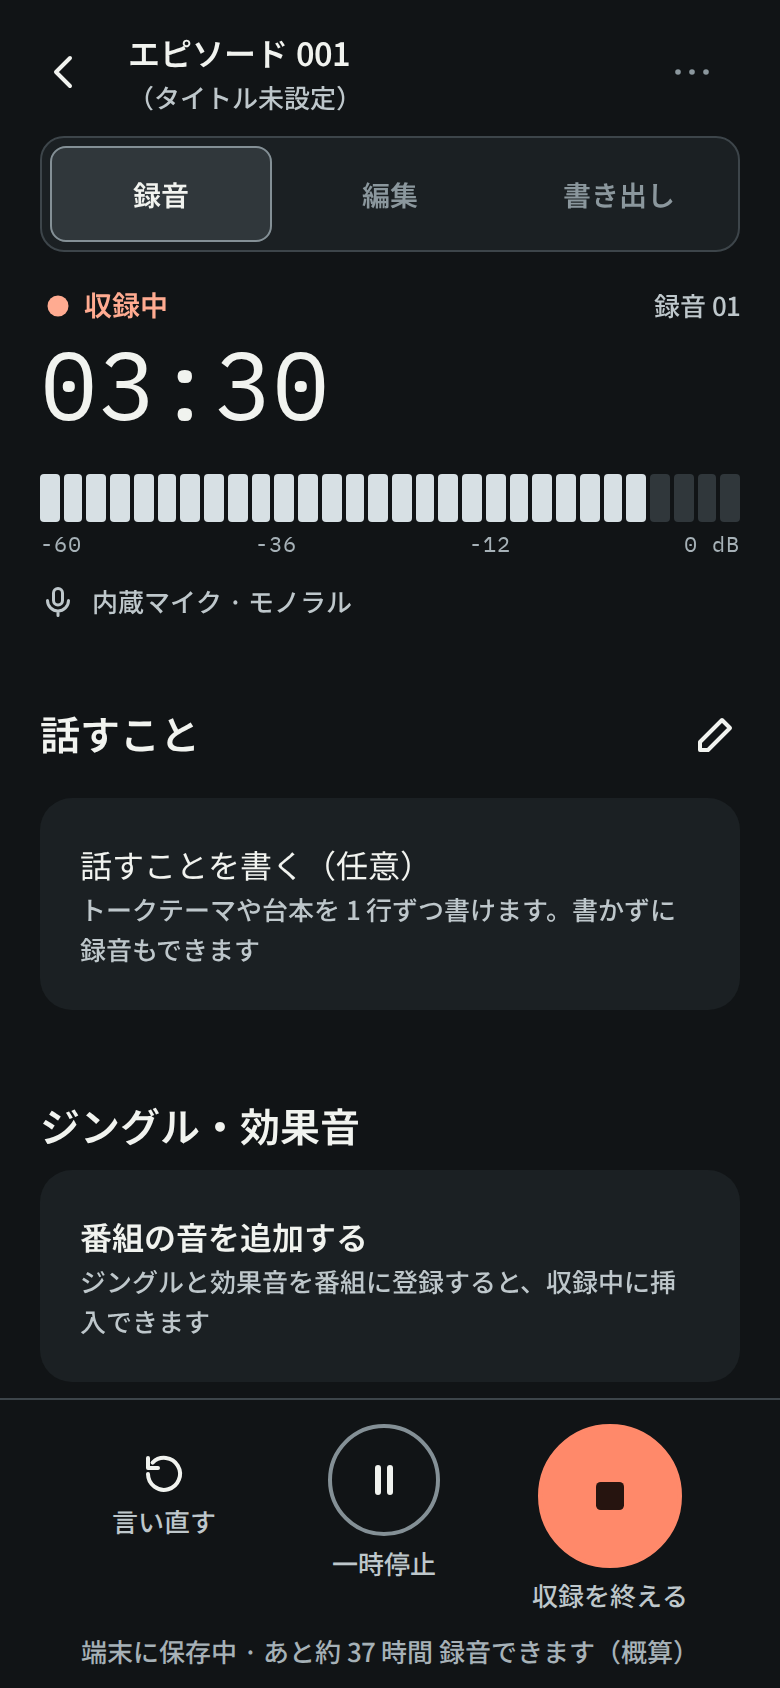
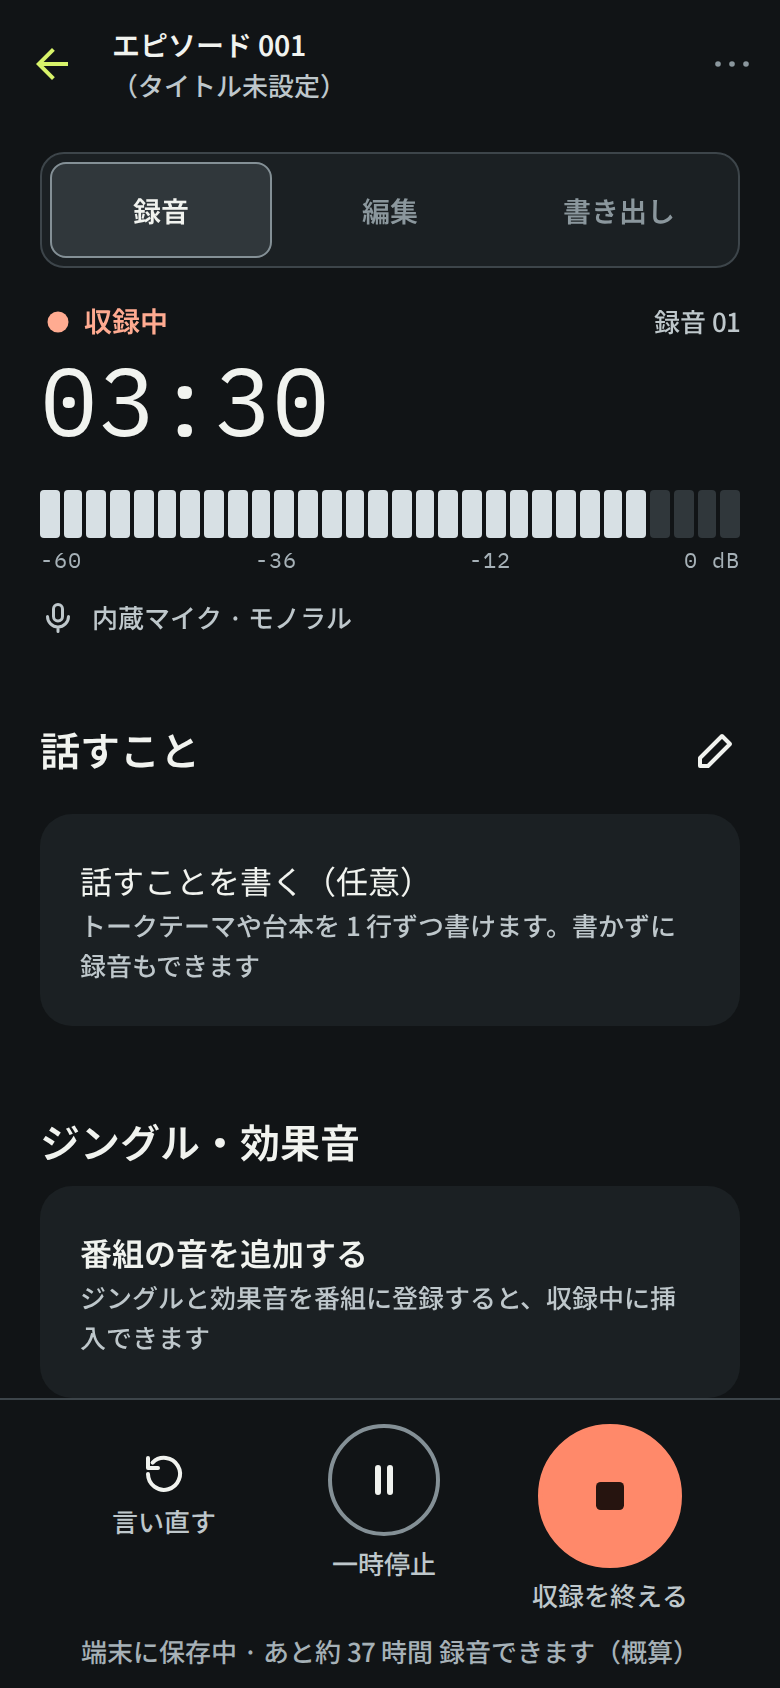
docs(verify): 画面を撮り直し、#98 の置き換えと検証範囲を記録する
Web 検証はアラートを confirm / alert で代え、ハーネスはダイアログを記録して閉じる。
戻るはナビゲーションバーの戻るボタンを押す。

Refs #98

Claude-Session: https://claude.ai/code/session_017wzgxY9gxDJUtYqNtCk4GR

diff --git a/docs/design-refresh/README.md b/docs/design-refresh/README.md
@@ -195,3 +195,40 @@ safe area とホームインジケータ、キーボード、VoiceOver / TalkBac
 - Impeccable: 角丸の片側の線（`border-accent-on-rounded`）は 0 件になった。残りは無効ボタンの文字の
   コントラスト（WCAG 1.4.3 は無効な部品を対象外とする）、波形の切り抜き（意図どおり）、
   react-native-safe-area-context の Web 版が使う `padding` の transition（Web 描画だけ）。
+
+## 10. OS の標準部品へ寄せた（Issue #98）【事実】
+
+「iPhone の利用者が違和感を持たない操作感」と「既存の資産を使い、デザインは色・形・配置・太さで当てる」
+という方針で、自作していた部品を置き換えた。方針と対応表は DESIGN_SYSTEM.md §6.2。
+
+| 以前（#94 の自作） | #98 |
+|---|---|
+| `Header`（自作のバー） | expo-router のネイティブスタックヘッダー（`ScreenHeader`）。収録中は `usePreventRemove` と `gestureEnabled: false` で戻る操作を止める |
+| 「…」→ 下からのシート | iOS: `Stack.Toolbar.Menu`（ヘッダー）と `@expo/ui` の `Menu`（行）。他: 従来のシート |
+| 設定の選択 → シート | iOS: `@expo/ui` の `Picker`（menu）。他: シート（選択中にチェック） |
+| 権限・エラー・無音の確認 → シート | `Alert`（Web 検証は confirm / alert） |
+| 言い直す → シート | iOS: `ActionSheetIOS`。他: シート |
+| 名前の変更 → シート | iOS: `Alert.prompt`。他: シート |
+| 入力・一覧のシート | iOS: `Modal` の `pageSheet`（下スワイプで閉じる）。他: 従来のシート |
+| 自作トグル | `Switch` |
+| 自作タブ | iOS: `UISegmentedControl`。他: 従来の `Segmented` |
+| SVG アイコン | iOS: SF Symbols（`expo-symbols`、無いときは SVG）。他: SVG |
+| 収録日の文字入力 | iOS: `@react-native-community/datetimepicker`（compact）。他: 文字入力 |
+| RN の `Animated` / `PanResponder` のトースト、瞬時に縮むボタン | Reanimated の出入り・ばね、Gesture Handler のスワイプ、押下の縮小を 120ms で補間 |
+| 設定の「ハプティクス」が何もしない（不具合） | `services.haptics`（`expo-haptics`）。録音の開始・停止、一時停止・再開、言い直し、タブ・選択・話題の切り替え、コピー、書き出し完了 |
+
+### 10.1 この作業で見つけて直した不具合【事実】
+
+- **設定の選択肢が表示されていなかった。** `Row` が `below` を受け取りながら描いておらず、録音品質・チャンネル・
+  想定時間・無音の 3 項目の選択肢が見えず変更できなかった。#94 で入れた退行。
+- **Home の題が無く、戻るボタンの読み上げが「index」になっていた。** Home の `title` をアプリ名にした。
+- **行の右の操作（「…」）が行の押下と入れ子だった。** ネイティブのメニューを押すと行の移動も起きうるので、
+  右の操作を行の押下の外へ出した。
+
+### 10.2 検証と未検証【事実】
+
+- `npm run lint` / `typecheck` / `test` / `format:check`、Web 描画の全フロー（Android / Web 側の実装）。
+- `expo export -p ios` と `-p android` でバンドルが作れること、`expo prebuild -p ios` が通り、
+  追加したライブラリの最低 iOS（16.4）がアプリの設定と一致すること。
+- **iOS の実機・シミュレータでは確かめていない**（この環境は Linux）。iOS 専用の実装（`*.ios.tsx`）は
+  Web 描画に出ないため、見た目・動き・読み上げは未確認。確認手順は Issue #98 に残した。
